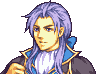
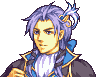
new jolyon again

diff --git a/src/config/playables/jolyon.config.ts b/src/config/playables/jolyon.config.ts
@@ -3,7 +3,8 @@ import { IDoFCharacter } from "@/src/models/interfaces";
 
 export const Jolyon: IDoFCharacter = {
     name: DoFCharKey.Jolyon, // enjo
-    artists: [DoFArtist.Astra, DoFArtist.Amelia],
+    artists: [DoFArtist.Lumi, DoFArtist.Levin],
+    // artists: [DoFArtist.Astra, DoFArtist.Amelia],
     blurb: '"... burning with rebel spirit, the sort of man who could change the world, due in part to his elevated place in it..."',
     class: DoFClasses.Mage,
     nationality: DoFNationality.Musain,

diff --git a/src/config/artists.config.ts b/src/config/artists.config.ts
@@ -36,5 +36,9 @@ export const DoFArtistConfig = {
     [DoFArtist.Xiltas]: {
         name: 'Xiltas',
         color: '#918769'
+    },
+    [DoFArtist.Levin]:{
+        name: 'Levin',
+        color: '#39d4c4'
     }
 };

diff --git a/src/models/enums.ts b/src/models/enums.ts
@@ -20,7 +20,8 @@ export enum DoFArtist {
     Nih = 'niharu',
     Pi = 'pi',
     TBA = 'tba',
-    Xiltas = 'xiltas'
+    Xiltas = 'xiltas',
+    Levin = 'levin',
 };
 
 export enum DoFNationality {
